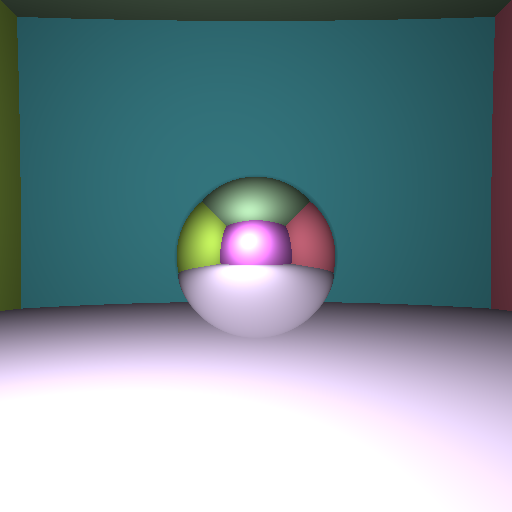
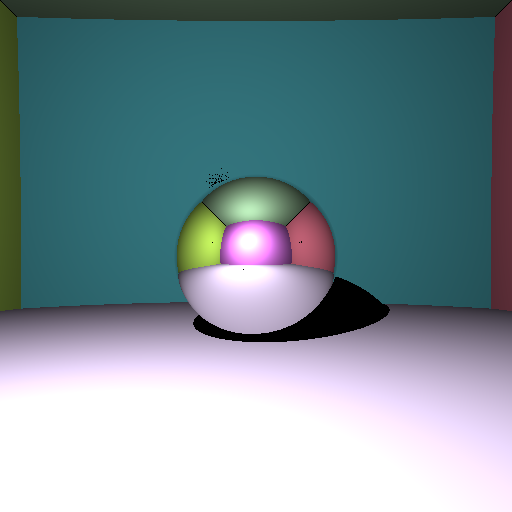
add shadow

Changed region(s): [[0.375, 0.5312, 0.7812, 0.6875], [0.4062, 0.3438, 0.4375, 0.375]]

diff --git a/main.cpp b/main.cpp
@@ -194,7 +194,15 @@ public:
       } // else
 
       // test if there is a shadow by sending a new ray
-      // TODO
+      P = P + eps * N;
+      Ray new_ray(P, (light_position - P) / (light_position - P).norm());
+      Vector P1, N1;
+      int object_id1;
+      double t1;
+      if (intersect(new_ray, P1, t1, N1, object_id1)) {
+        if ((P1 - P).norm2() < (light_position - P).norm2()) // shadow!!!
+          return Vector(0, 0, 0);
+      }
       // if there is no shadow, compute the formula with dot products etc.
       return light_intensity / (4 * M_PI * (light_position - P).norm2()) *
              (objects[object_id]->albedo / M_PI) *
